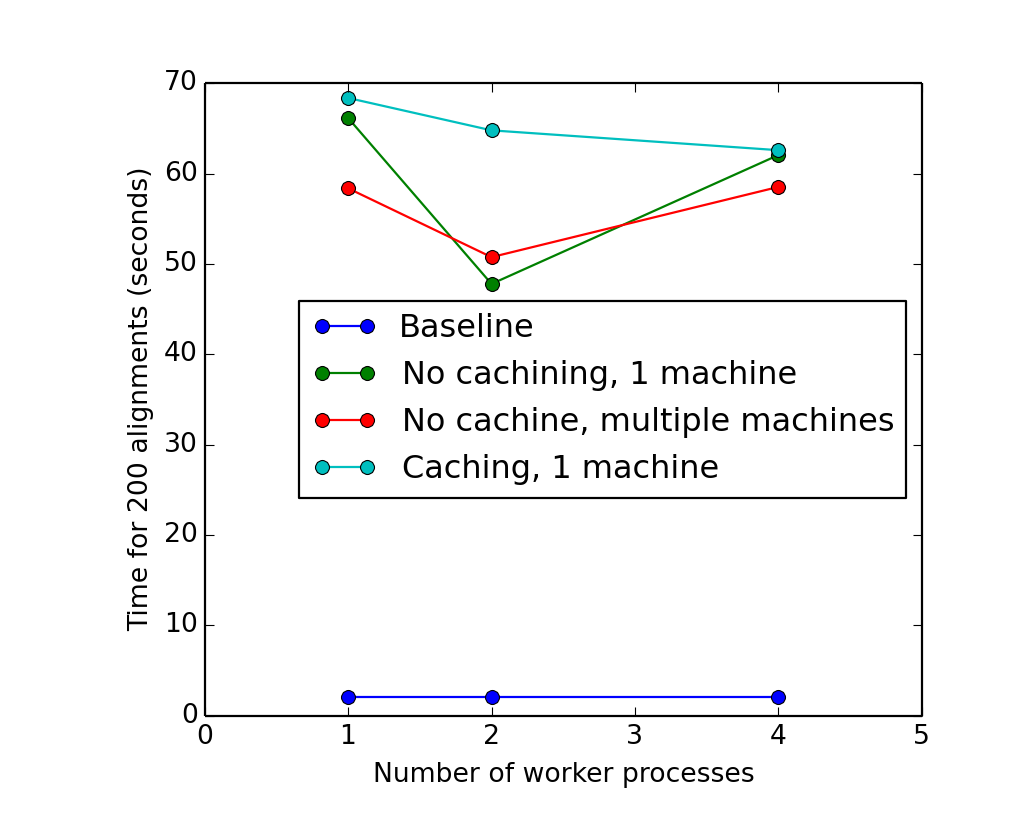
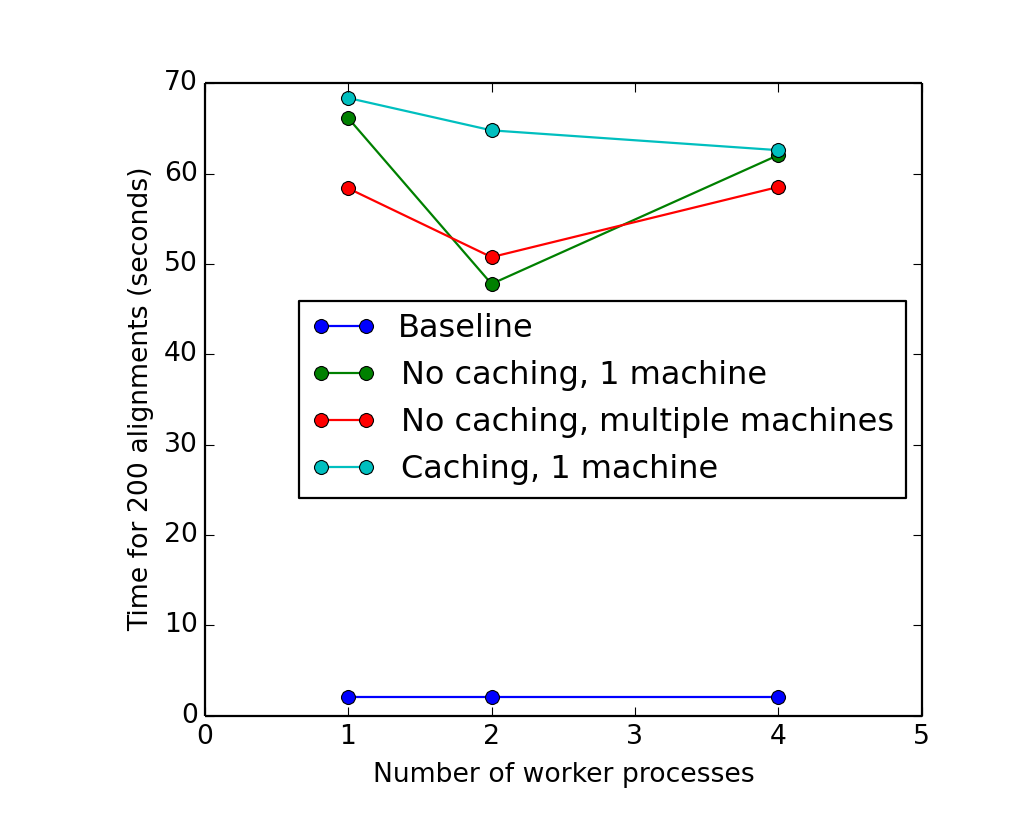
Fix spelling in benchmarks

diff --git a/doc/writeup/plot_results.py b/doc/writeup/plot_results.py
@@ -17,44 +17,6 @@ def new_axes():
     ax = fig.add_subplot(1, 1, 1)
     return ax
 
-
-def plot_spectrum(data, element):
-    def plot(xvals, yvals, xlabel, filename, element, right=None, left=None):
-        ax = new_axes()
-        ax.semilogy(xvals, yvals, ',')
-        ax.set_xlabel(xlabel)
-        ax.set_ylabel('Count')
-        ax.set_title(element)
-        if right != None:
-            ax.set_xlim(right=right)
-        if left != None:
-            ax.set_xlim(left=left)
-        #pyplot.show()
-        pyplot.savefig(element + '_' + filename + '.png', dpi=160)
-    
-    plot(data.channels, data.counts, 'Channel', 'channel', element, right=1024)
-    plot(data.energies, data.counts, 'Energy (KeV)', 'energy', element, left=0)
-
-
-def plot_channel_vs_energy(channels, energies, line, curve, bounds=None, extra=''):
-    ax = new_axes()
-    p = ax.plot
-    p(channels, energies, '.')
-    every = np.arange(1, 800)
-    ploted_line = linear_fit(every, line[0], line[1])
-    plotted_curve = quadratic_fit(every, curve[0], curve[1], curve[2])
-    p(every, ploted_line, 'r-')
-    p(every, plotted_curve, 'g-')
-    ax.set_ylim(bottom=0)
-    if bounds:
-        ax.set_xlim(right = bounds[0])
-        ax.set_ylim(top = bounds[1])
-    ax.set_xlabel('Channel')
-    ax.set_ylabel('Energy (KeV)')
-    #ax.set_title('Energy vs. Channel')
-    
-    pyplot.savefig('experiment_2' + extra + '.png', dpi=160)
-   
 baseline = [2.0261590480804443, 2.013432025909424, 2.016541004180908, 2.0370638370513916, 1.953212022781372]
 no_cache = {
         1:[67.923126936, 65.339925, 65.205662, 64.384956, 67.854135],
@@ -86,8 +48,8 @@ ax.set_xlim(left=0)
 ax.set_xlim(right=5)
 #ax.set_ylim(bottom=0)
 ax.plot([1,2,4], [baseline_avg] * 3, 'o-', label='Baseline')
-ax.plot([1,2,4], no_averages, 'o-', label='No cachining, 1 machine')
-ax.plot([1,2,4], remote_averages, 'o-', label='No cachine, multiple machines')
+ax.plot([1,2,4], no_averages, 'o-', label='No caching, 1 machine')
+ax.plot([1,2,4], remote_averages, 'o-', label='No caching, multiple machines')
 ax.plot([1,2,4], cache_averages, 'o-', label='Caching, 1 machine')
 ax.set_xlabel('Number of worker processes')
 ax.set_ylabel('Time for 200 alignments (seconds)')
